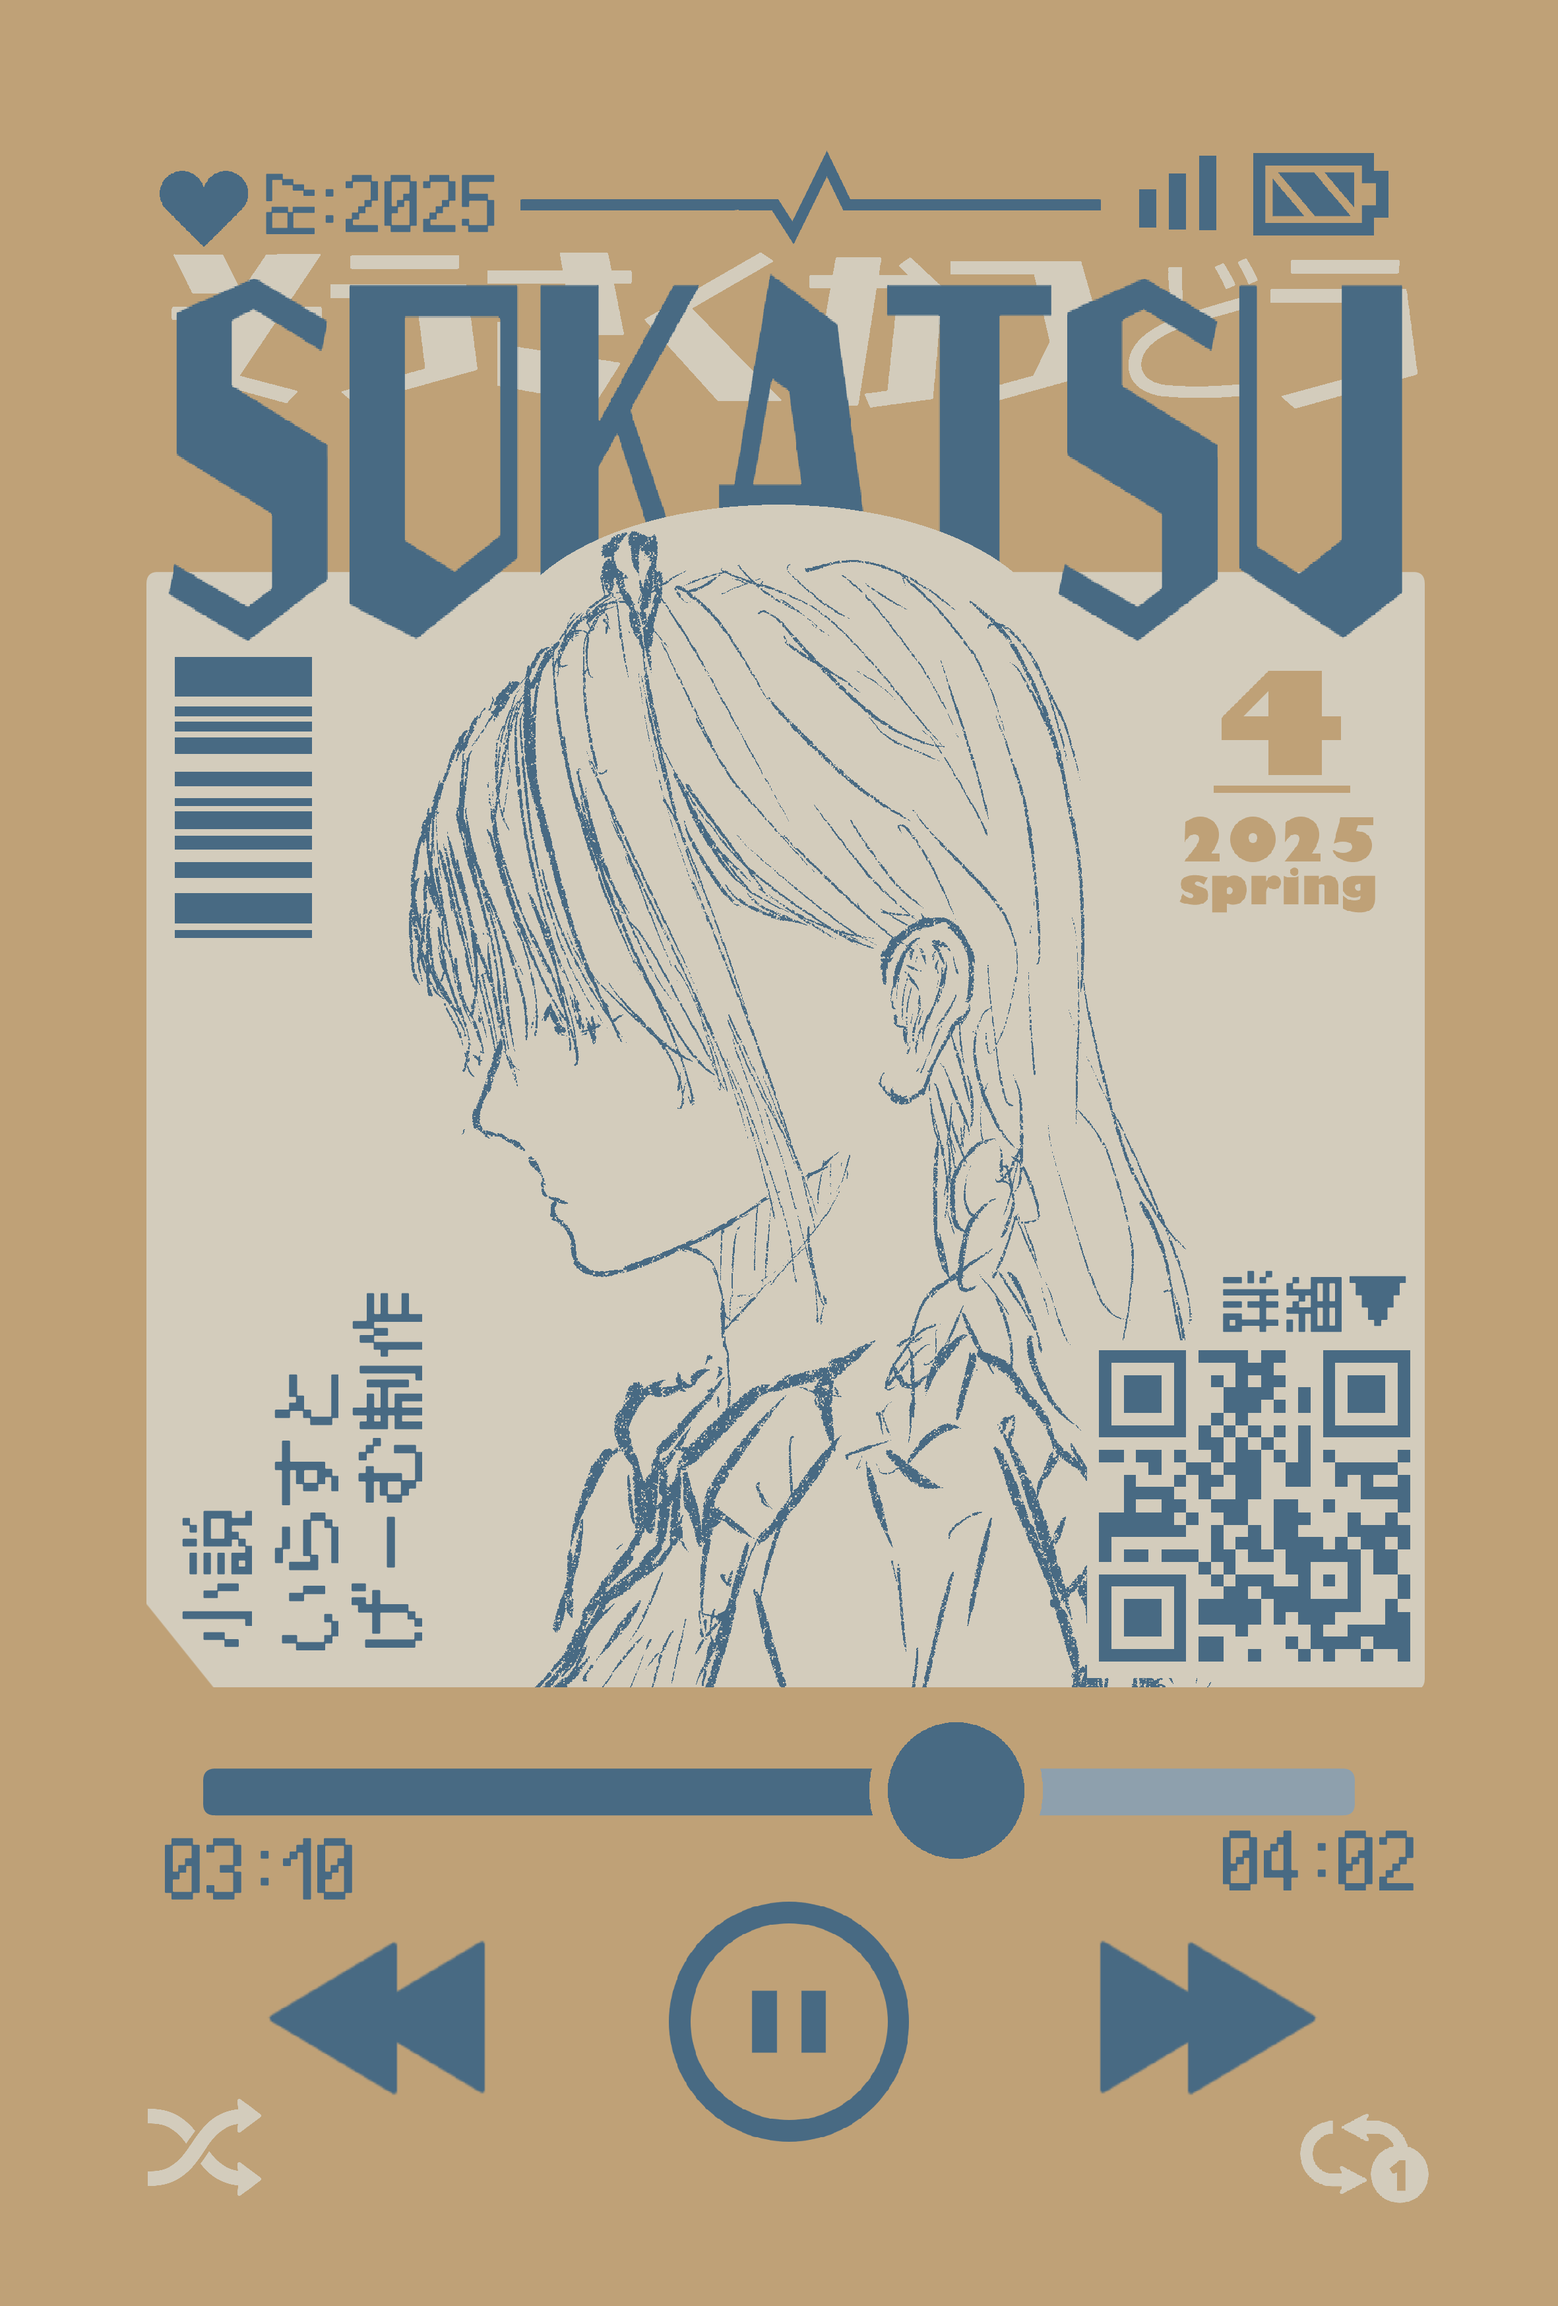
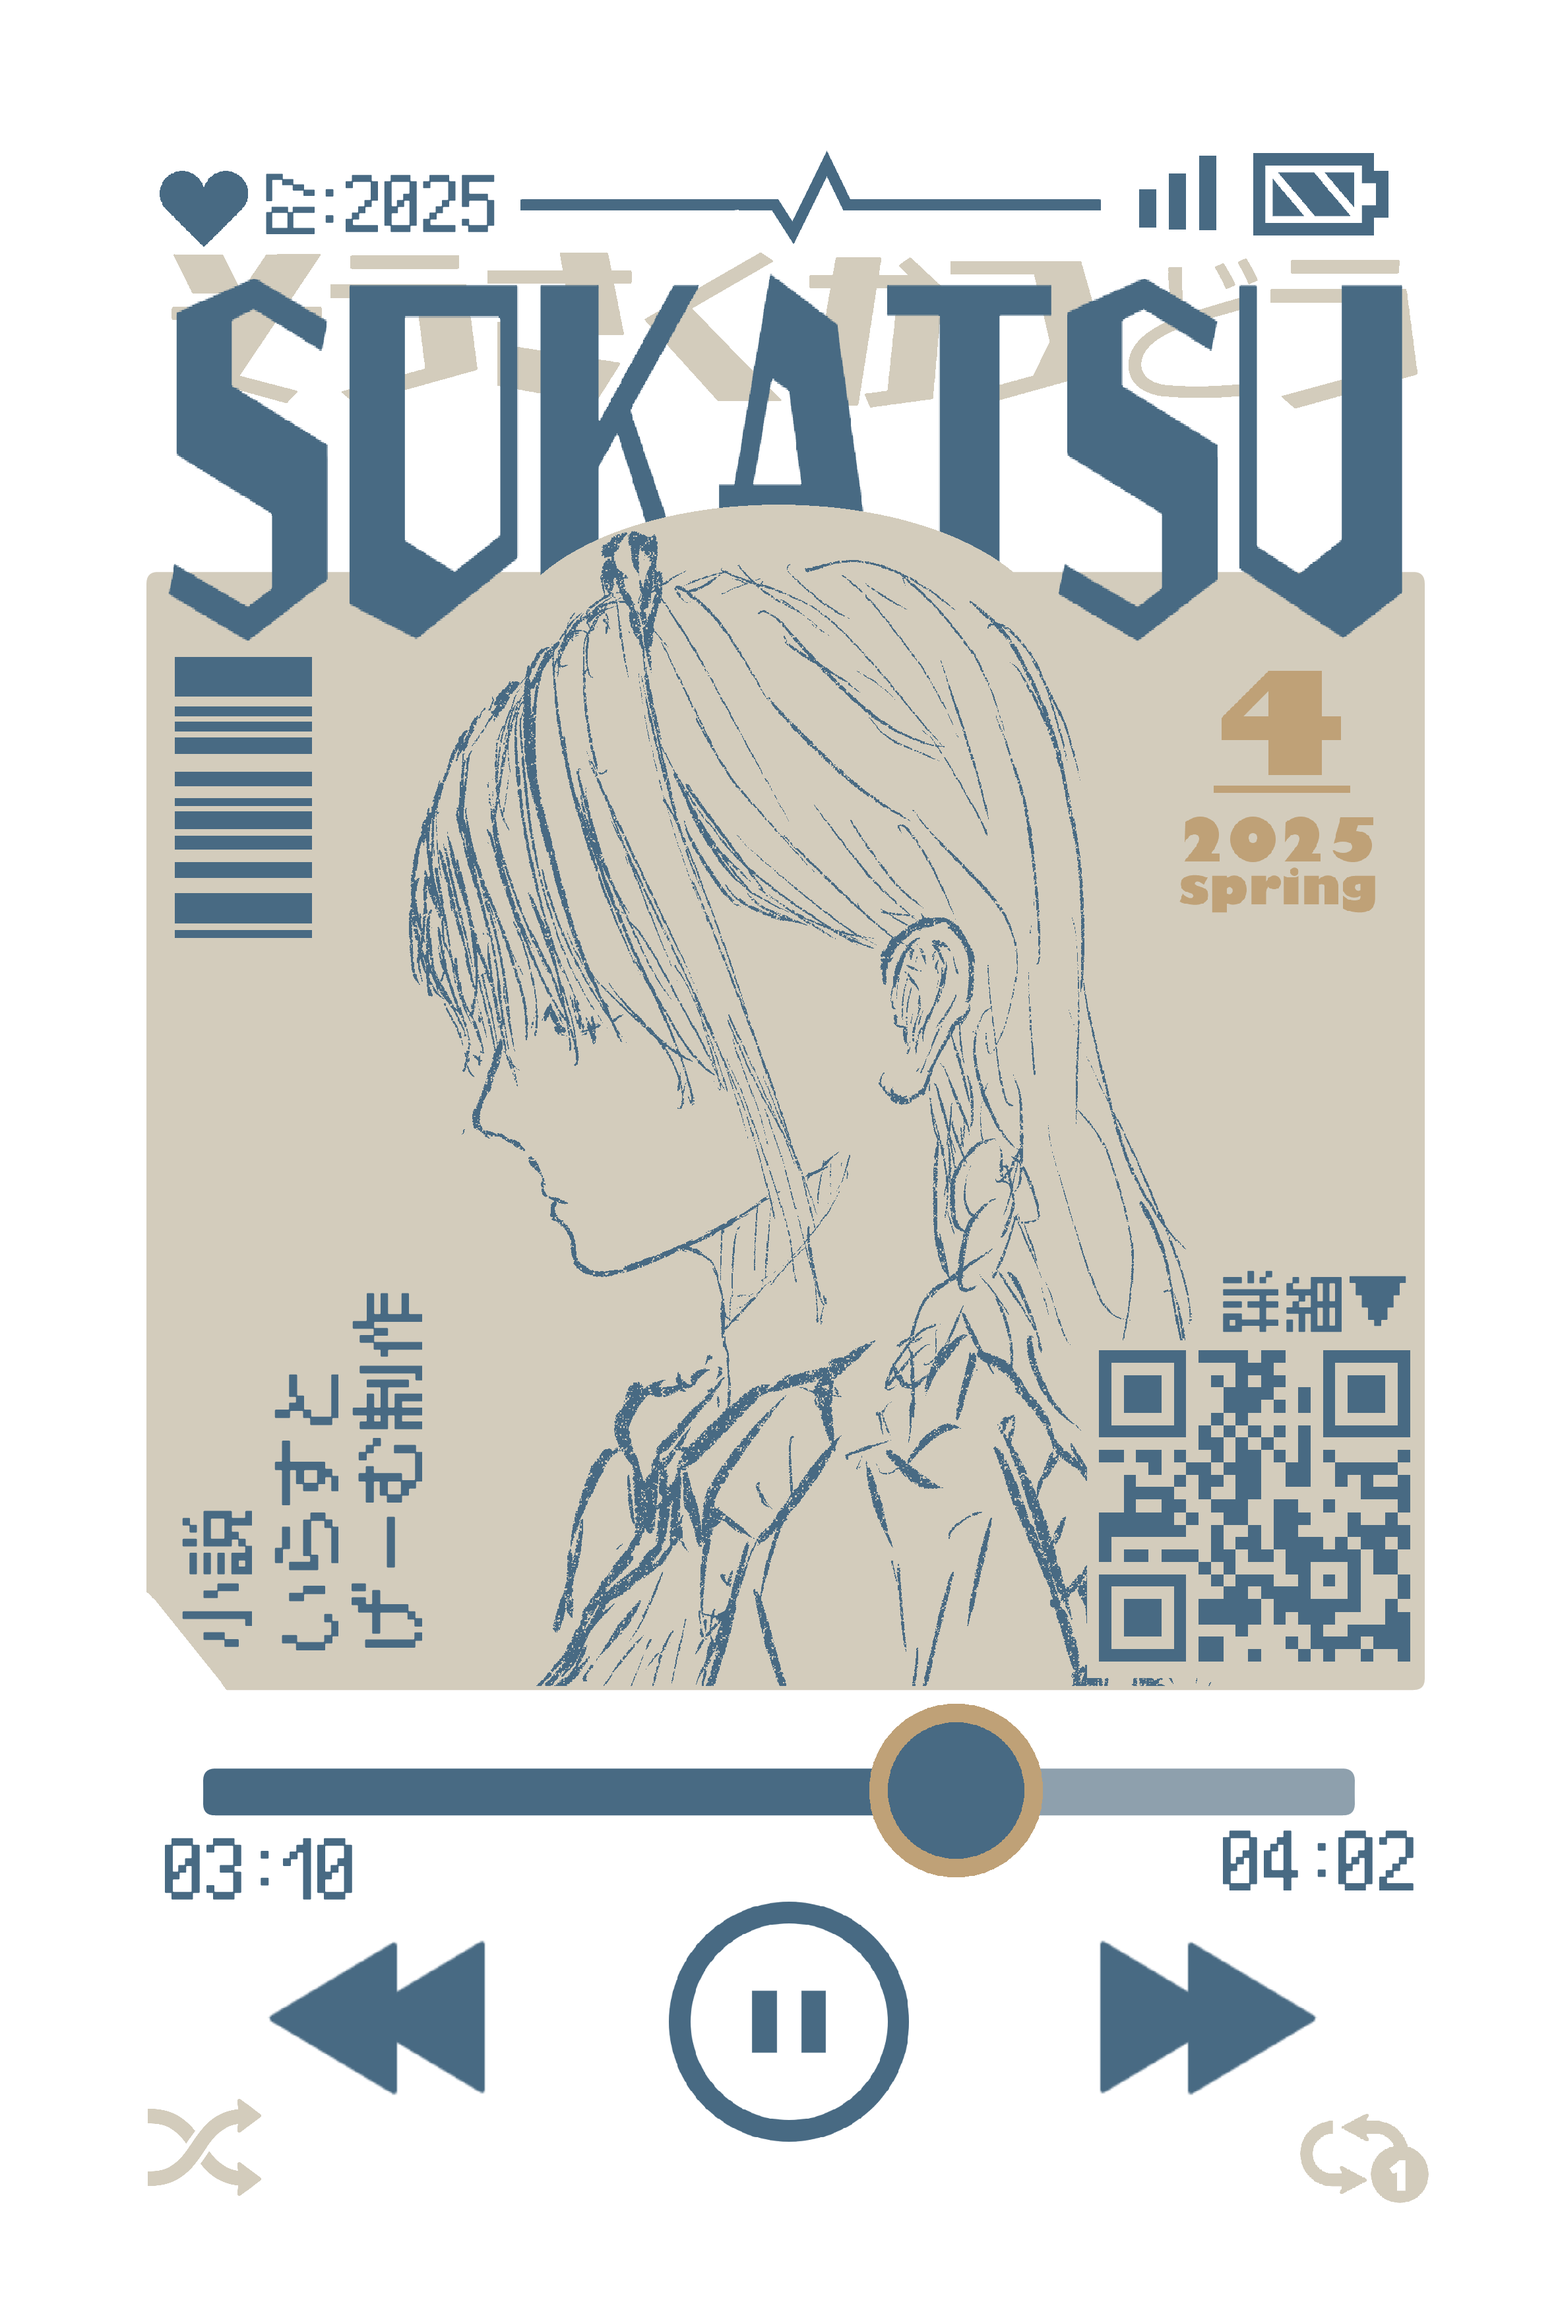
相対的な位置に画像を配置

diff --git a/src/pages/Home.tsx b/src/pages/Home.tsx
@@ -1,9 +1,27 @@
 import sokatsuPoster from "../assets/sokatsu_poster.png";
+import previousButton from "../assets/button/previous.png";
+import nextButton from "../assets/button/next.png";
+import stopButton from "../assets/button/stop.png";
+import shuffleButton from "../assets/button/shuffle.png";
+import repeatButton from "../assets/button/repeat.png";
 import styles from "./Home.module.scss";
 export const Home = () => {
+  const prevButton = () => {
+    console.log("prev button clicked");
+  };
   return (
-    <div className={styles.container}>
-      <img src={sokatsuPoster} alt="" />
+    <div className={styles.image_container}>
+      <img className={styles.poster_main} src={sokatsuPoster} alt="" />
+      <img className={styles.prev_button} src={previousButton} alt="" />
+      <img
+        className={styles.next_button}
+        src={nextButton}
+        onClick={prevButton}
+        alt=""
+      />
+      <img className={styles.stop_button} src={stopButton} alt="" />
+      <img className={styles.shuffle} src={shuffleButton} alt="" />
+      <img className={styles.repeat} src={repeatButton} alt="" />
     </div>
   );
 };

diff --git a/src/pages/Home.module.scss b/src/pages/Home.module.scss
@@ -1,4 +1,65 @@
 @use "../styles/variables";
+
 body {
   background-color: variables.$posterBrown;
+}
+
+.image_container {
+  position: relative;
+  width: 100%;
+
+  .poster_main {
+    width: 100%;
+    opacity: 0.4;
+  }
+
+  .prev_button,
+  .next_button,
+  .stop_button {
+    position: absolute;
+    top: 84%;
+    width: 13%;
+  }
+
+  .prev_button {
+    left: 18%;
+  }
+
+  .next_button {
+    right: 16%;
+  }
+
+  .stop_button {
+    left: 44%;
+    top: 83%; // 位置をずらしたい場合は調整
+  }
+  .shuffle,
+  .repeat {
+    position: absolute;
+    top: 91%;
+    width: 8%;
+  }
+  .shuffle {
+    left: 10%;
+  }
+  .repeat {
+    top: 92%;
+    left: 83%;
+  }
+  // ビューポートの高さが800px以上の場合
+  @media (min-height: 700px) {
+    .prev_button,
+    .next_button,
+    .stop_button {
+      top: 98%; // 例として少し下に配置
+    }
+
+    .stop_button {
+      top: 97%; // stop_buttonだけ別に調整も可能
+    }
+    .shuffle,
+    .repeat {
+      top: 110%;
+    }
+  }
 }
